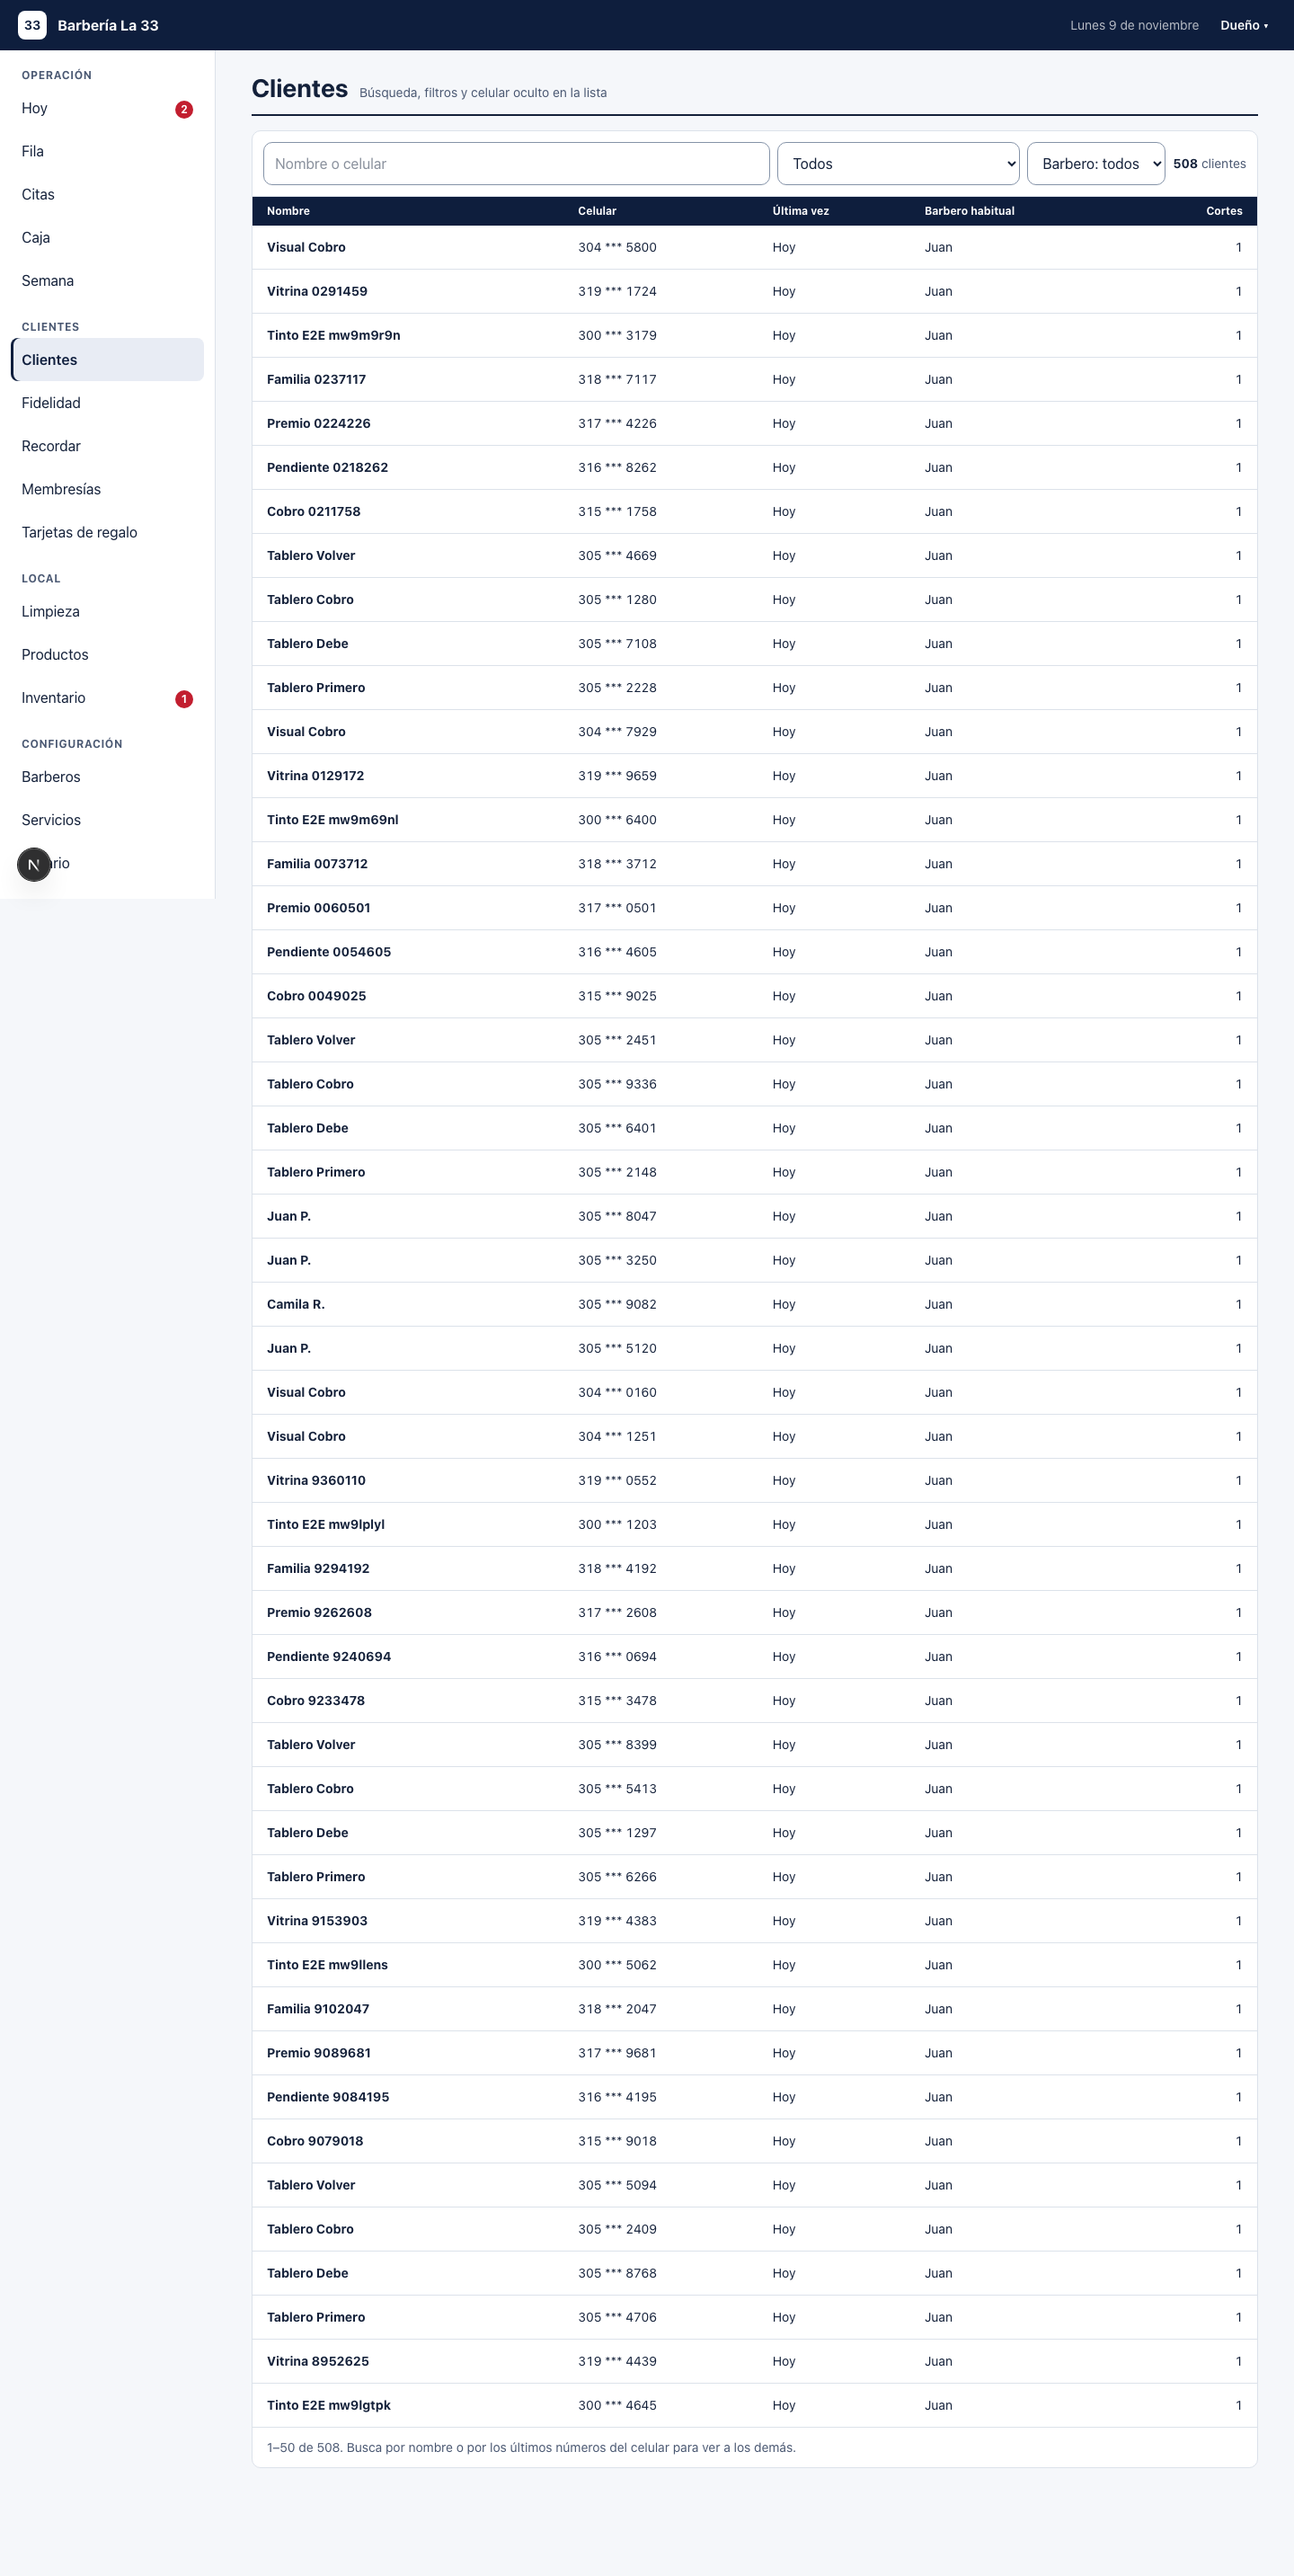
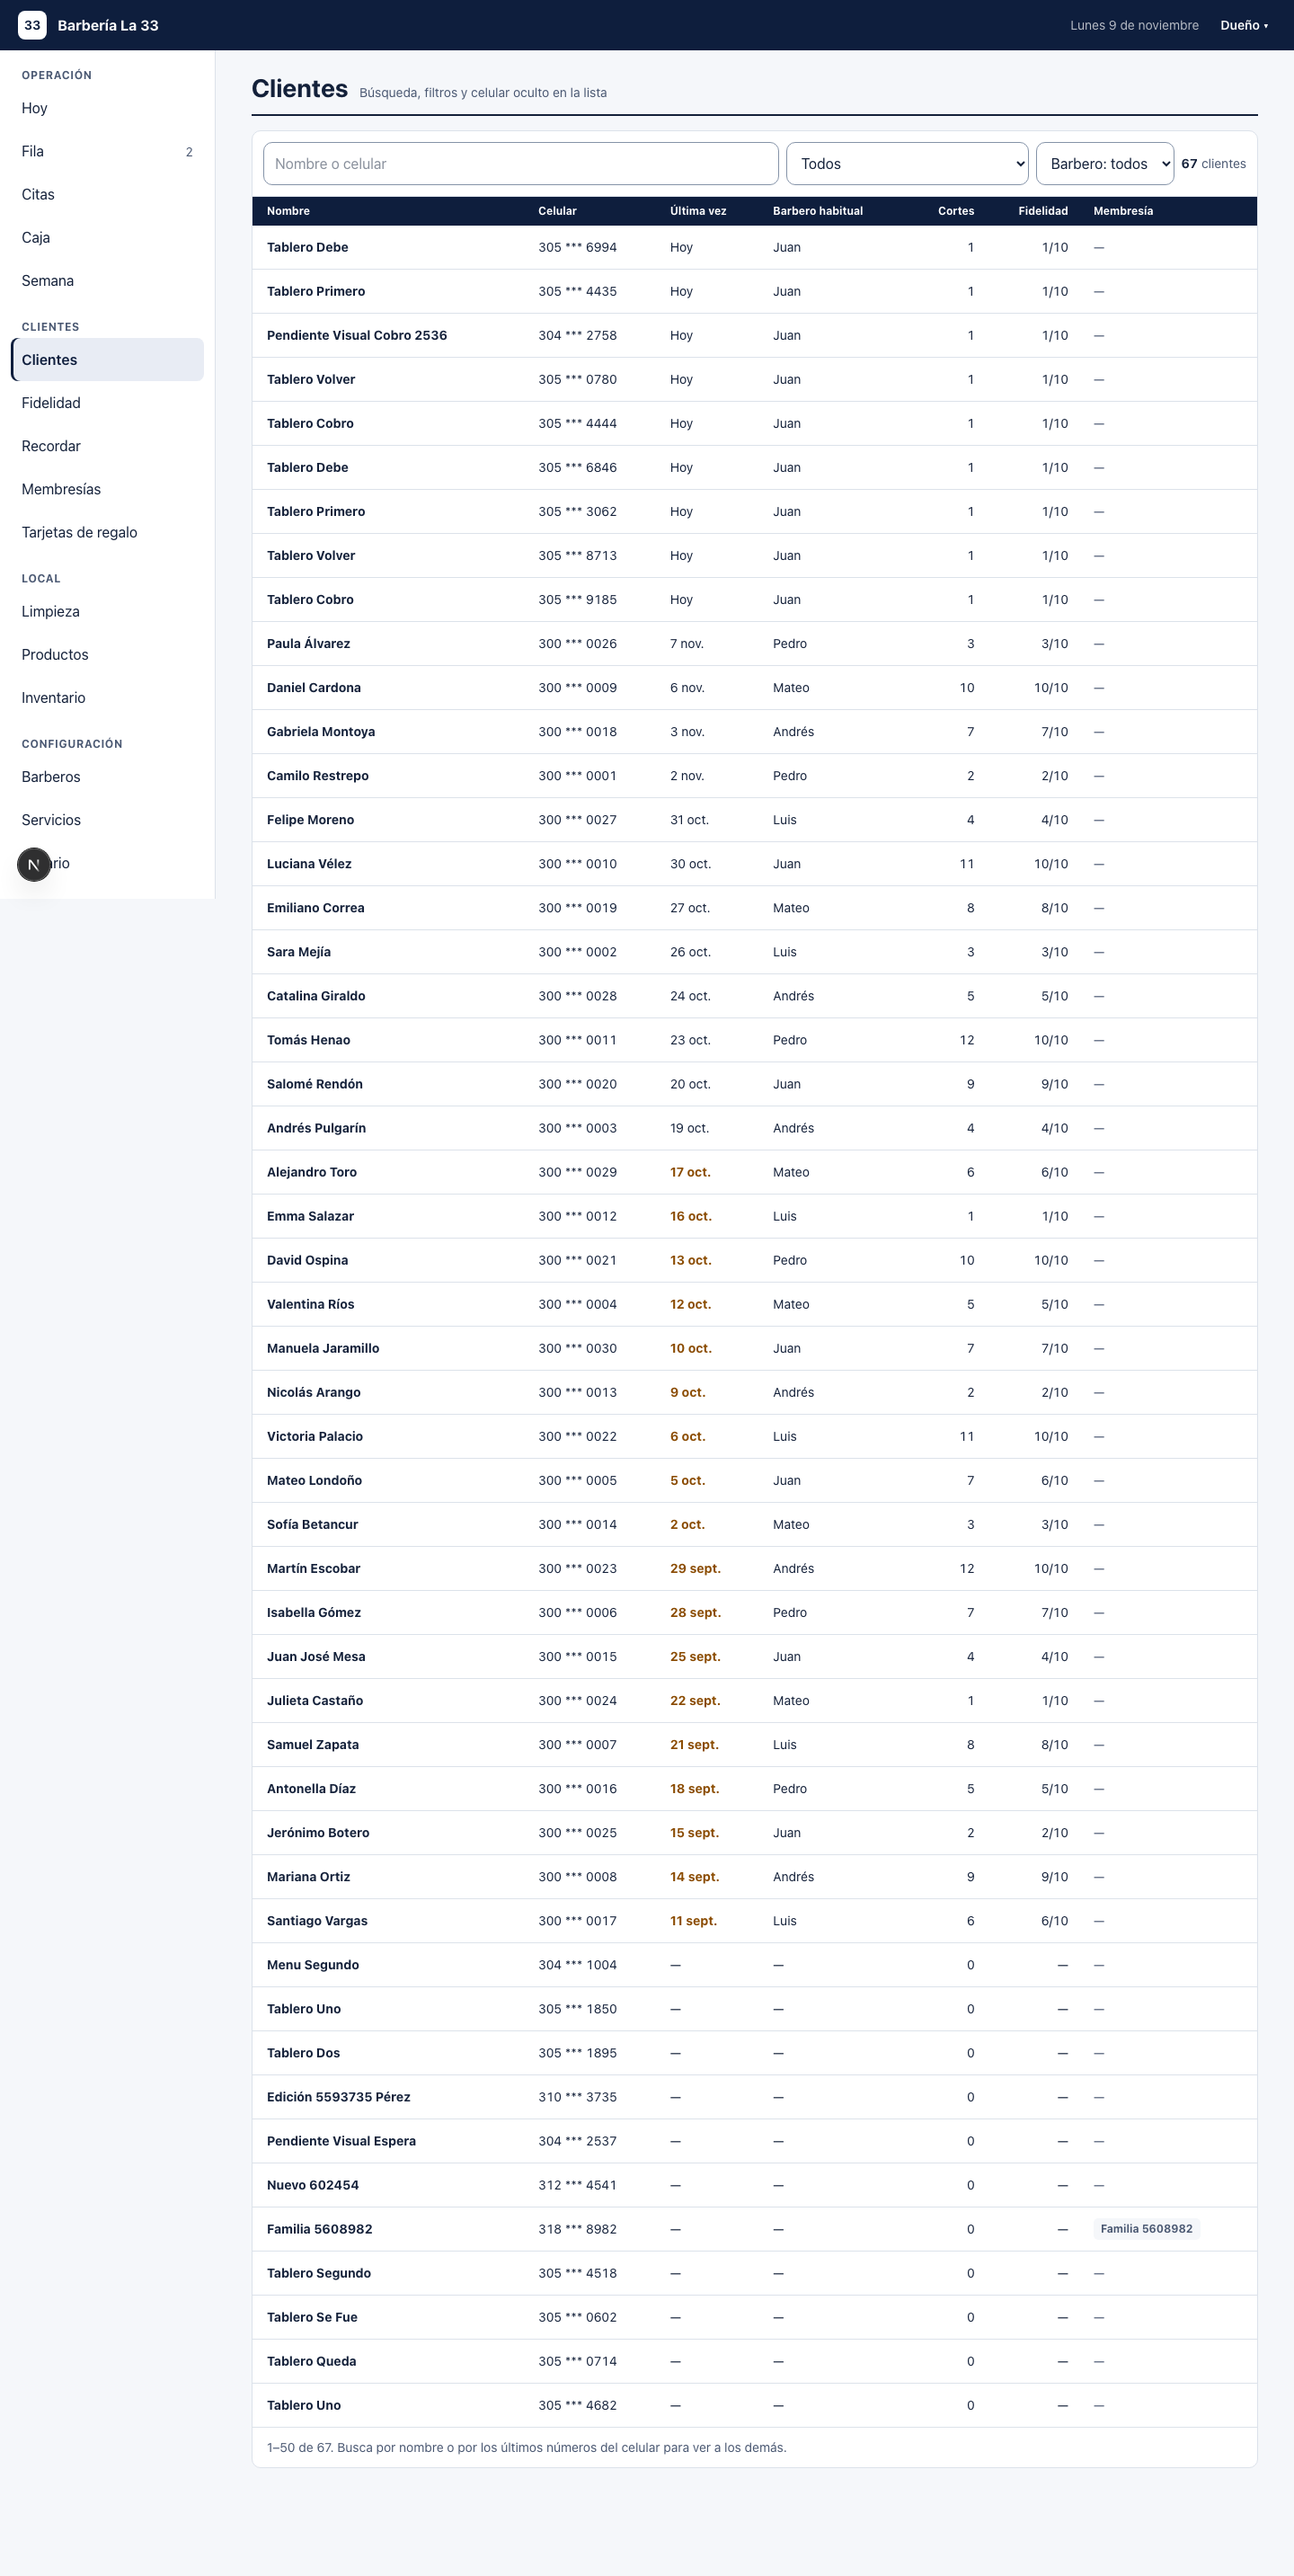
T-180: Fidelidad y Membresía en la tabla de Clientes del dueño
Se leen después de search_customers con la sesión del dueño (RLS, sin SQL
nuevo): sellos de la tarjeta abierta sobre visits_required y la familia con
su último periodo vigente. Lectura aprobada por Henry, 2026-11-09.

diff --git a/src/components/customers/OwnerCustomerTable.tsx b/src/components/customers/OwnerCustomerTable.tsx
@@ -3,6 +3,7 @@
 import Link from "next/link";
 import { useEffect, useRef, useState, useTransition } from "react";
 import { searchOwnerCustomers, type OwnerCustomerRow } from "@/lib/actions/customers";
+import { Tag } from "@/components/admin/ModulePage";
 import { lastSeen } from "@/lib/domain/owner-tables";
 
 type Meta = {
@@ -16,7 +17,8 @@ type Meta = {
  * REQ-078.33 (T-180) clientes del dueño como el tablero Dueno-Clientes: buscador "Nombre o
  * celular", "Todos ▾", "Barbero: todos ▾" y "N clientes"; en escritorio tabla Nombre · Celular
  * (enmascarado) · Última vez (ámbar si pasa de los días de Recordar) · Barbero habitual · Cortes;
- * en el celular, lista con lo mismo en una línea. La búsqueda va al servidor (REQ-018.3); los
+ * Fidelidad (X/10) · Membresía (familia o "Vence en N días" en ámbar); en el celular, lista con lo
+ * mismo en una línea. La búsqueda va al servidor (REQ-018.3); los
  * filtros, sobre lo ya cargado. La ficha (nombre) muestra el celular completo.
  */
 export function OwnerCustomerTable({ initial, meta }: { initial: OwnerCustomerRow[]; meta: Meta }) {
@@ -112,7 +114,9 @@ export function OwnerCustomerTable({ initial, meta }: { initial: OwnerCustomerRo
                 <th className="px-3 py-2 font-bold">Celular</th>
                 <th className="px-3 py-2 font-bold">Última vez</th>
                 <th className="px-3 py-2 font-bold">Barbero habitual</th>
-                <th className="px-4 py-2 text-right font-bold">Cortes</th>
+                <th className="px-3 py-2 text-right font-bold">Cortes</th>
+                <th className="px-3 py-2 text-right font-bold">Fidelidad</th>
+                <th className="px-4 py-2 font-bold">Membresía</th>
               </tr>
             </thead>
             <tbody className="divide-line divide-y">
@@ -131,7 +135,15 @@ export function OwnerCustomerTable({ initial, meta }: { initial: OwnerCustomerRo
                     {c.seen.label}
                   </td>
                   <td className="px-3 py-2">{barberName(c.preferredBarberId)}</td>
-                  <td className="px-4 py-2 text-right tabular-nums">{c.visitsCount}</td>
+                  <td className="px-3 py-2 text-right tabular-nums">{c.visitsCount}</td>
+                  <td className="px-3 py-2 text-right tabular-nums">{c.loyalty}</td>
+                  <td className="px-4 py-2">
+                    {c.membership ? (
+                      <Tag tone={c.membership.tone}>{c.membership.label}</Tag>
+                    ) : (
+                      <span className="text-muted">—</span>
+                    )}
+                  </td>
                 </tr>
               ))}
             </tbody>
@@ -153,8 +165,12 @@ export function OwnerCustomerTable({ initial, meta }: { initial: OwnerCustomerRo
                       {c.preferredBarberId ? ` · ${barberName(c.preferredBarberId)}` : ""}
                     </span>
                   </span>
-                  <span className="text-muted shrink-0 text-xs tabular-nums">
-                    {c.visitsCount} {c.visitsCount === 1 ? "corte" : "cortes"}
+                  <span className="flex shrink-0 flex-col items-end gap-1 text-xs">
+                    <span className="text-muted tabular-nums">
+                      {c.visitsCount} {c.visitsCount === 1 ? "corte" : "cortes"}
+                      {c.loyalty !== "—" ? ` · ${c.loyalty}` : ""}
+                    </span>
+                    {c.membership && <Tag tone={c.membership.tone}>{c.membership.label}</Tag>}
                   </span>
                 </Link>
               </li>

diff --git a/src/lib/actions/customers.ts b/src/lib/actions/customers.ts
@@ -10,6 +10,11 @@ import {
 } from "@/lib/domain/customer-history";
 import { parseBirthday } from "@/lib/domain/birthday";
 import { toLoyaltyStatus, type LoyaltyStatus } from "@/lib/domain/loyalty";
+import {
+  customerBadges,
+  type CustomerBadges,
+  type MemberRead,
+} from "@/lib/domain/owner-tables";
 import { maskPhone } from "@/lib/domain/phone";
 import { businessDayBogota } from "@/lib/domain/time";
 import { createSupabaseServerClient } from "@/lib/supabase/server";
@@ -541,11 +546,12 @@ export type OwnerCustomerRow = {
   lastVisitAt: string | null;
   preferredBarberId: string | null;
   visitsCount: number;
-};
+} & CustomerBadges;
 
 /**
  * REQ-078.33 (T-180) clientes del dueño para la tabla: lo que ya trae `search_customers` (50 por
- * búsqueda), con el celular enmascarado.
+ * búsqueda), con el celular enmascarado. Después, Fidelidad y Membresía de esos clientes con la
+ * sesión del dueño (RLS, sin cambios SQL; lectura aprobada por Henry, 2026-11-09).
  */
 export async function searchOwnerCustomers(q: string): Promise<OwnerCustomerRow[]> {
   const session = await getStaffSession();
@@ -556,13 +562,45 @@ export async function searchOwnerCustomers(q: string): Promise<OwnerCustomerRow[
     p_q: q.trim().slice(0, 60),
     p_limit: 50,
   });
-  return ((data ?? []) as (CustomerRow & { preferred_barber_id: string | null })[]).map((c) => ({
+  const rows = (data ?? []) as (CustomerRow & { preferred_barber_id: string | null })[];
+  const ids = rows.map((c) => c.id);
+  const [cardsRes, programRes, membersRes] = ids.length
+    ? await Promise.all([
+        supabase
+          .from("loyalty_cards")
+          .select("customer_id, stamps")
+          .in("status", ["active", "completed"])
+          .in("customer_id", ids),
+        supabase
+          .from("loyalty_programs")
+          .select("enabled, visits_required")
+          .eq("business_id", session.business.id)
+          .maybeSingle(),
+        supabase
+          .from("membership_members")
+          .select(
+            "customer_id, family_memberships(customers(name), membership_periods(ends_on, status))",
+          )
+          .is("removed_at", null)
+          .in("customer_id", ids),
+      ])
+    : [{ data: [] }, { data: null }, { data: [] }];
+  const program = programRes.data as { enabled: boolean; visits_required: number } | null;
+  const badges = customerBadges(
+    ids,
+    (cardsRes.data ?? []) as { customer_id: string; stamps: number }[],
+    program?.enabled ? program.visits_required : null,
+    (membersRes.data ?? []) as unknown as MemberRead[],
+    businessDayBogota(),
+  );
+  return rows.map((c) => ({
     id: c.id,
     name: c.name,
     phoneMasked: maskPhone(c.phone_e164),
     lastVisitAt: c.last_visit_at,
     preferredBarberId: c.preferred_barber_id,
     visitsCount: c.visits_count,
+    ...badges[c.id],
   }));
 }
 

diff --git a/tests/unit/owner-tables.test.ts b/tests/unit/owner-tables.test.ts
@@ -2,6 +2,7 @@ import { describe, expect, it } from "vitest";
 import {
   familyQuota,
   familyUsed,
+  customerBadges,
   lastSeen,
   loyaltyLabel,
   membershipBadge,
@@ -100,5 +101,49 @@ describe("REQ-078.33 tablas del dueño como el tablero Dueno-Clientes (T-180)", 
   it("REQ-078.33 día corto del tablero ('dom. 15', '16 oct.')", () => {
     expect(shortDay("2026-11-15", true)).toBe("dom. 15");
     expect(shortDay("2026-10-16")).toBe("16 oct.");
+  });
+
+  it("REQ-078.33 insignias de Clientes: sellos de la tarjeta abierta y la familia con su último periodo vigente", () => {
+    const b = customerBadges(
+      ["a", "b", "c", "d"],
+      [
+        { customer_id: "a", stamps: 7 },
+        { customer_id: "c", stamps: 10 },
+      ],
+      10,
+      [
+        {
+          customer_id: "a",
+          family_memberships: {
+            customers: { name: "Ana Restrepo" },
+            membership_periods: [
+              { ends_on: "2026-11-01", status: "active" }, // ya pasó
+              { ends_on: "2026-11-12", status: "active" },
+              { ends_on: "2026-12-30", status: "voided" }, // anulado
+            ],
+          },
+        },
+        {
+          customer_id: "b",
+          family_memberships: {
+            customers: { name: "Luis Gómez" },
+            membership_periods: [{ ends_on: "2026-10-01", status: "active" }],
+          },
+        },
+      ],
+      TODAY,
+    );
+    expect(b.a).toEqual({
+      loyalty: "7/10",
+      membership: { label: "Vence en 3 días", tone: "warn" },
+    });
+    // sin periodo vigente: la familia en gris
+    expect(b.b).toEqual({ loyalty: "—", membership: { label: "Familia Gómez", tone: "muted" } });
+    expect(b.c).toEqual({ loyalty: "10/10", membership: null });
+    expect(b.d).toEqual({ loyalty: "—", membership: null });
+    // programa apagado: sin sellos
+    expect(customerBadges(["a"], [{ customer_id: "a", stamps: 7 }], null, [], TODAY).a.loyalty).toBe(
+      "—",
+    );
   });
 });

diff --git a/src/lib/domain/owner-tables.ts b/src/lib/domain/owner-tables.ts
@@ -140,3 +140,52 @@ export function familyQuota(
     return { label: `Vence ${shortDay(current.endsOn, true)}`, tone: "warn" };
   return { label: "Al día", tone: "ok" };
 }
+
+export type MemberRead = {
+  customer_id: string;
+  family_memberships: {
+    customers: { name: string } | null;
+    membership_periods: { ends_on: string; status: string }[];
+  } | null;
+};
+
+export type CustomerBadges = {
+  loyalty: string;
+  membership: { label: string; tone: Tone } | null;
+};
+
+/**
+ * REQ-078.33 columnas Fidelidad y Membresía de Clientes (lectura aprobada por Henry, 2026-11-09):
+ * sellos de la tarjeta abierta sobre los cortes del premio, y la familia activa con el último
+ * periodo vigente (no anulado, que no haya pasado). Sin programa, raya en Fidelidad.
+ */
+export function customerBadges(
+  ids: string[],
+  cards: { customer_id: string; stamps: number }[],
+  visitsRequired: number | null,
+  members: MemberRead[],
+  today: string,
+): Record<string, CustomerBadges> {
+  const stamps = new Map(cards.map((c) => [c.customer_id, c.stamps]));
+  const family = new Map(members.map((m) => [m.customer_id, m.family_memberships]));
+  return Object.fromEntries(
+    ids.map((id) => {
+      const f = family.get(id);
+      const endsOn =
+        f?.membership_periods
+          .filter((p) => p.status === "active" && p.ends_on >= today)
+          .map((p) => p.ends_on)
+          .sort()
+          .at(-1) ?? null;
+      return [
+        id,
+        {
+          loyalty: loyaltyLabel(stamps.get(id) ?? null, visitsRequired),
+          membership: f
+            ? membershipBadge({ holderName: f.customers?.name ?? null, endsOn }, today)
+            : null,
+        },
+      ];
+    }),
+  );
+}

diff --git a/tests/e2e/visual-dueno-clientes.spec.ts b/tests/e2e/visual-dueno-clientes.spec.ts
@@ -36,7 +36,15 @@ test.describe("T-180 clientes del dueño como el tablero (REQ-078.33)", () => {
       "Última vez",
       "Barbero habitual",
       "Cortes",
+      "Fidelidad",
+      "Membresía",
     ]);
+    // Fidelidad X/10 de la tarjeta abierta (lectura aprobada por Henry, 2026-11-09)
+    const stamps = await page
+      .getByRole("table", { name: "Tabla de clientes" })
+      .locator("tbody tr td:nth-child(6)")
+      .allTextContents();
+    expect(stamps.some((t) => /^\d+\/\d+$/.test(t))).toBe(true);
     const phones = await page
       .getByRole("table", { name: "Tabla de clientes" })
       .locator("tbody tr td:nth-child(2)")

diff --git a/specs/tasks.md b/specs/tasks.md
@@ -2322,9 +2322,12 @@ T-088 y T-089 quedan libres (reservados para el Hito 8 si hace falta partir una 
   Recordar, y Membresías y Tarjetas, van lado a lado en las dos páginas de cada pareja (el menú
   conserva sus entradas). **Desvíos:** (1) "Compras suyas" se muestra pero NO se resta del A pagar:
   REQ-068.4 dice que la compra de un barbero no se descuenta de la liquidación (el tablero la
-  resta). (2) Clientes sin las columnas Fidelidad y Membresía: `search_customers` no las trae; la
-  lectura (loyalty_cards y membership_members por RLS, sin SQL nuevo) quedó propuesta y espera la
-  aprobación de Henry. (3) Sin "1–50 de N · Siguientes 50": `search_customers` no tiene
+  resta); queda como dato, sin signo menos, y A pagar = `toPay`. (2) Fidelidad y Membresía de
+  Clientes no vienen en `search_customers`: se leen después con la sesión del dueño (RLS, sin SQL
+  nuevo) — `loyalty_cards` abierta + `loyalty_programs.visits_required` ("7/10") y
+  `membership_members` activos → `family_memberships` + el último `membership_periods.ends_on`
+  vigente ("Familia <titular>", "Vence en N días" en ámbar a 7 días o menos, o raya); lectura
+  aprobada por Henry, 2026-11-09 (`customerBadges`, prueba unitaria). (3) Sin "1–50 de N · Siguientes 50": `search_customers` no tiene
   desplazamiento; se muestran 50 y se busca para ver a los demás. (4) "No trabaja" en la agenda no
   se construye: la app no tiene días de trabajo por barbero (el estado `off` es "no ha llegado").
   (5) No se construyen "Marcar pagado", "Descargar PDF", "Anular" de tarjetas ni el filtro "Esta
